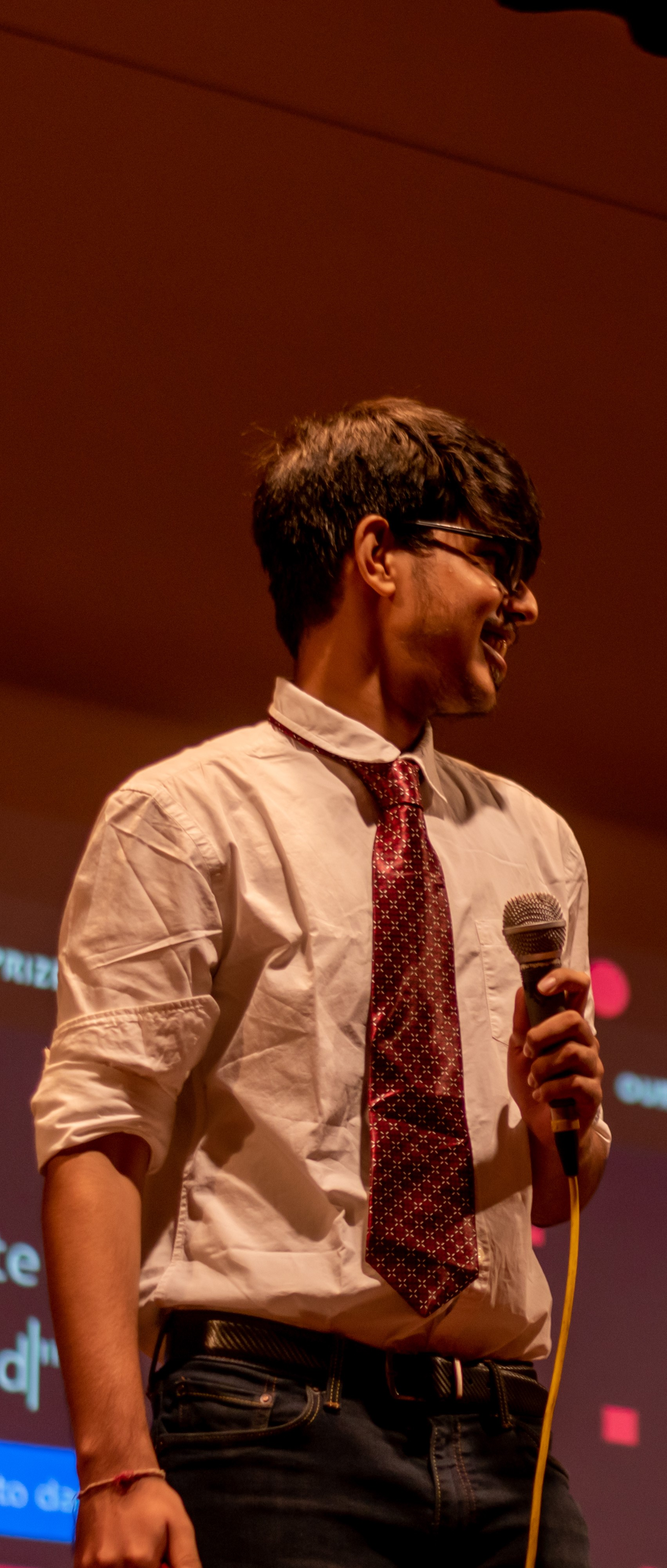
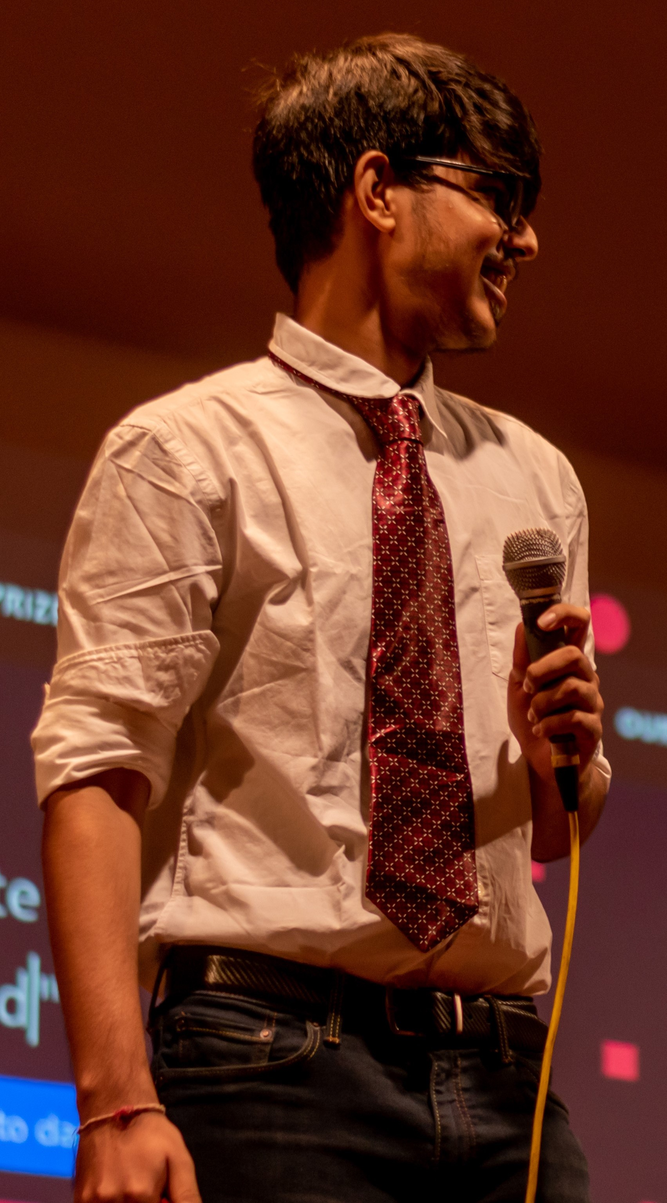
updated stats page pictures

diff --git a/src/pages/FAQ/FAQ.jsx b/src/pages/FAQ/FAQ.jsx
@@ -77,93 +77,93 @@ const FAQ = () => {
         }
 
       </div>
-      {isVisible && (
-        <motion.div className="accordion"
-          animate={{
-            y: [50, 0],
-            opacity: [0, 1],
-            transition: { duration: 0.6, ease: 'easeIn' }
 
-          }}
-        >
-          <div className="accordion-item">
-            <div className="accordion-item-header">
-              What happens at a Hackathon?
-            </div>
-            <div className="accordion-item-body">
-              <div className="accordion-item-body-content">
-                Participants (“hackers”) spend 24 hours working in teams of 2 -
-                4 people to build or code projects (“hacks”)  excited
-                about. There are workshops, mentors and mini-events to guide you
-                along the way. You bring your ideas, and we give you everything
-                you need to make them come to life.
-              </div>
+      <motion.div className="accordion"
+        animate={{
+          y: [50, 0],
+          opacity: [0, 1],
+          transition: { duration: 0.6, ease: 'easeIn' }
+
+        }}
+      >
+        <div className="accordion-item">
+          <div className="accordion-item-header">
+            What happens at a Hackathon?
+          </div>
+          <div className="accordion-item-body">
+            <div className="accordion-item-body-content">
+              Participants (“hackers”) spend 24 hours working in teams of 2 -
+              4 people to build or code projects (“hacks”)  excited
+              about. There are workshops, mentors and mini-events to guide you
+              along the way. You bring your ideas, and we give you everything
+              you need to make them come to life.
             </div>
           </div>
-          <div className="accordion-item">
-            <div className="accordion-item-header">
-              What are the topics for the Hackathon?
-            </div>
-            <div className="accordion-item-body">
-              <div className="accordion-item-body-content">
-                This is an open innovation hackathon i.e. there  be any
-                problem statements or tracks provided. Teams are free to build
-                what they want. Also once  registered with an e-mail id,
-                shoot you a mail about further announcements.
-              </div>
+        </div>
+        <div className="accordion-item">
+          <div className="accordion-item-header">
+            What are the topics for the Hackathon?
+          </div>
+          <div className="accordion-item-body">
+            <div className="accordion-item-body-content">
+              This is an open innovation hackathon i.e. there  be any
+              problem statements or tracks provided. Teams are free to build
+              what they want. Also once  registered with an e-mail id,
+              shoot you a mail about further announcements.
             </div>
           </div>
-          <div className="accordion-item">
-            <div className="accordion-item-header">
-              What do people normally make?
-            </div>
-            <div className="accordion-item-body">
-              <div className="accordion-item-body-content">
-                Hacks generally fall under one (or more) of the seven cortices:
-                Web Development, Blockchain, Android, iOS, AI/ML, AR/VR and Game
-                Development.
-              </div>
+        </div>
+        <div className="accordion-item">
+          <div className="accordion-item-header">
+            What do people normally make?
+          </div>
+          <div className="accordion-item-body">
+            <div className="accordion-item-body-content">
+              Hacks generally fall under one (or more) of the seven cortices:
+              Web Development, Blockchain, Android, iOS, AI/ML, AR/VR and Game
+              Development.
             </div>
           </div>
-          <div className="accordion-item">
-            <div className="accordion-item-header">
-              Where will the hackathon be held?
-            </div>
-            <div className="accordion-item-body">
-              <div className="accordion-item-body-content">
-                The hackathon will be conducted at K.J Somaiya College of
-                Engineering, Vidyavihar, Mumbai.
-              </div>
+        </div>
+        <div className="accordion-item">
+          <div className="accordion-item-header">
+            Where will the hackathon be held?
+          </div>
+          <div className="accordion-item-body">
+            <div className="accordion-item-body-content">
+              The hackathon will be conducted at K.J Somaiya College of
+              Engineering, Vidyavihar, Mumbai.
             </div>
           </div>
-          <div className="accordion-item">
-            <div className="accordion-item-header">
-              What is the Code of Conduct?
-            </div>
-            <div className="accordion-item-body">
-              <div className="accordion-item-body-content">
-                The appropriate code of conduct is linked
-                <a href="https://drive.google.com/file/d/1EDjvC7DpBDr_j6EsBHBwd-XgZ6KS4_Hi/view?usp=sharing"
-                  className="coc">here </a>.
-              </div>
+        </div>
+        <div className="accordion-item">
+          <div className="accordion-item-header">
+            What is the Code of Conduct?
+          </div>
+          <div className="accordion-item-body">
+            <div className="accordion-item-body-content">
+              The appropriate code of conduct is linked
+              <a href="https://drive.google.com/file/d/1EDjvC7DpBDr_j6EsBHBwd-XgZ6KS4_Hi/view?usp=sharing"
+                className="coc">here </a>.
             </div>
           </div>
-          <div className="accordion-item">
-            <div className="accordion-item-header">
-              What if never been to a hackathon before?
-            </div>
-            <div className="accordion-item-body">
-              <div className="accordion-item-body-content">
-                Not to worry, We welcome students of all skill levels.
-                have talks, mentors and workshops to help you with your project;
-                hackathons can be a great place to learn new skills in a short
-                amount of time. Just be eager to learn, and excited to meet lots
-                of awesome people.
-              </div>
+        </div>
+        <div className="accordion-item">
+          <div className="accordion-item-header">
+            What if never been to a hackathon before?
+          </div>
+          <div className="accordion-item-body">
+            <div className="accordion-item-body-content">
+              Not to worry, We welcome students of all skill levels.
+              have talks, mentors and workshops to help you with your project;
+              hackathons can be a great place to learn new skills in a short
+              amount of time. Just be eager to learn, and excited to meet lots
+              of awesome people.
             </div>
           </div>
-        </motion.div>
-      )}
+        </div>
+      </motion.div>
+
     </section>
 
   );

diff --git a/src/components/shared/Footer/Footer.jsx b/src/components/shared/Footer/Footer.jsx
@@ -10,7 +10,7 @@ export default function Footer() {
         <div className="footer-content">
 
           <div className="codecell">
-            <a href="https://www.kjscecodecell.com/"><img src={CodeCell} alt="" /></a>
+            <a target='_blank' href="https://www.kjscecodecell.com/"><img src={CodeCell} alt="" /></a>
             <div className="socials">
               <a href="https://x.com/kjsce_codecell?s=21&t=rtV8iuTtUui3L-x4mv4w1A" target="_blank" >
                 <svg xmlns="http://www.w3.org/2000/svg" width="24" height="24" viewBox="0 0 36 36" fill="none">
@@ -31,7 +31,7 @@ export default function Footer() {
           </div>
           <div className="devopia"><img src={Logo} alt="" /></div>
           <div className="csi">
-            <a href="https://csikjsce.org/"><img src={CSI} alt="" /></a>
+            <a target='_blank' href="https://csikjsce.org/"><img src={CSI} alt="" /></a>
             <div className="socials">
               <a href="https://x.com/csi_kjsce?s=21&t=rtV8iuTtUui3L-x4mv4w1A" target="_blank" >
                 <svg xmlns="http://www.w3.org/2000/svg" width="24" height="24" viewBox="0 0 36 36" fill="none">

diff --git a/src/pages/Stats/Stats.jsx b/src/pages/Stats/Stats.jsx
@@ -35,20 +35,20 @@ function Stats() {
               <p>colleges</p>
             </div>
             <div className="imageContainer">
-              <img src="./Stats/Image4.png" alt="" />
+              <img src="./Stats/Image4.JPG" alt="" />
             </div>
           </div>
         </div>
         <div className="middle">
           <div className="imageContainer">
-            <img src="./Stats/Image5.png" alt="" />
+            <img src="./Stats/Image9.jpg" alt="" />
           </div>
           <div className="content">
             <h4 className="highlightNum">2000+</h4>
             <p>Registrations</p>
           </div>
           <div className="imageContainer">
-            <img src="./Stats/Image6.png" alt="" />
+            <img src="./Stats/Image6.JPG" alt="" />
           </div>
         </div>
         <div className="sideWrapper">

diff --git a/src/App.jsx b/src/App.jsx
@@ -1,7 +1,7 @@
 import Home from './pages/Home/Home'
 import About from './pages/About/About'
 import Prizes from './pages/Prizes/Prizes'
-import Track from './pages/Track/Track'
+// import Track from './pages/Track/Track'
 import FAQ from './pages/FAQ/FAQ'
 import Navbar from './components/shared/Navbar/Navbar'
 import Footer from './components/shared/Footer/Footer'
@@ -15,7 +15,7 @@ function App() {
       <About />
       <Stats />
       <Prizes />
-      <Track />
+      {/* <Track /> */}
       <Sponsors />
       <FAQ />
       <Footer />

diff --git a/src/pages/Stats/Stats.scss b/src/pages/Stats/Stats.scss
@@ -106,6 +106,10 @@
   .sideWrapper {
     display: flex;
     align-items: start;
+    flex: 1.5;
+  }
+  .middle {
+    flex: 1;
   }
   .column {
     margin: 0.8rem;
@@ -147,12 +151,15 @@
     object-fit: cover;
   }
 }
-
+.column {
+  // display: flex;
+  flex: 1;
+}
 .content {
   margin: 0.8rem 0;
   .highlightNum {
     color: #fff;
-    font-family: AgencyFB;
+    font-family: 'agencyfb';
     font-size: 3.8rem;
     font-style: normal;
     font-weight: 700;
